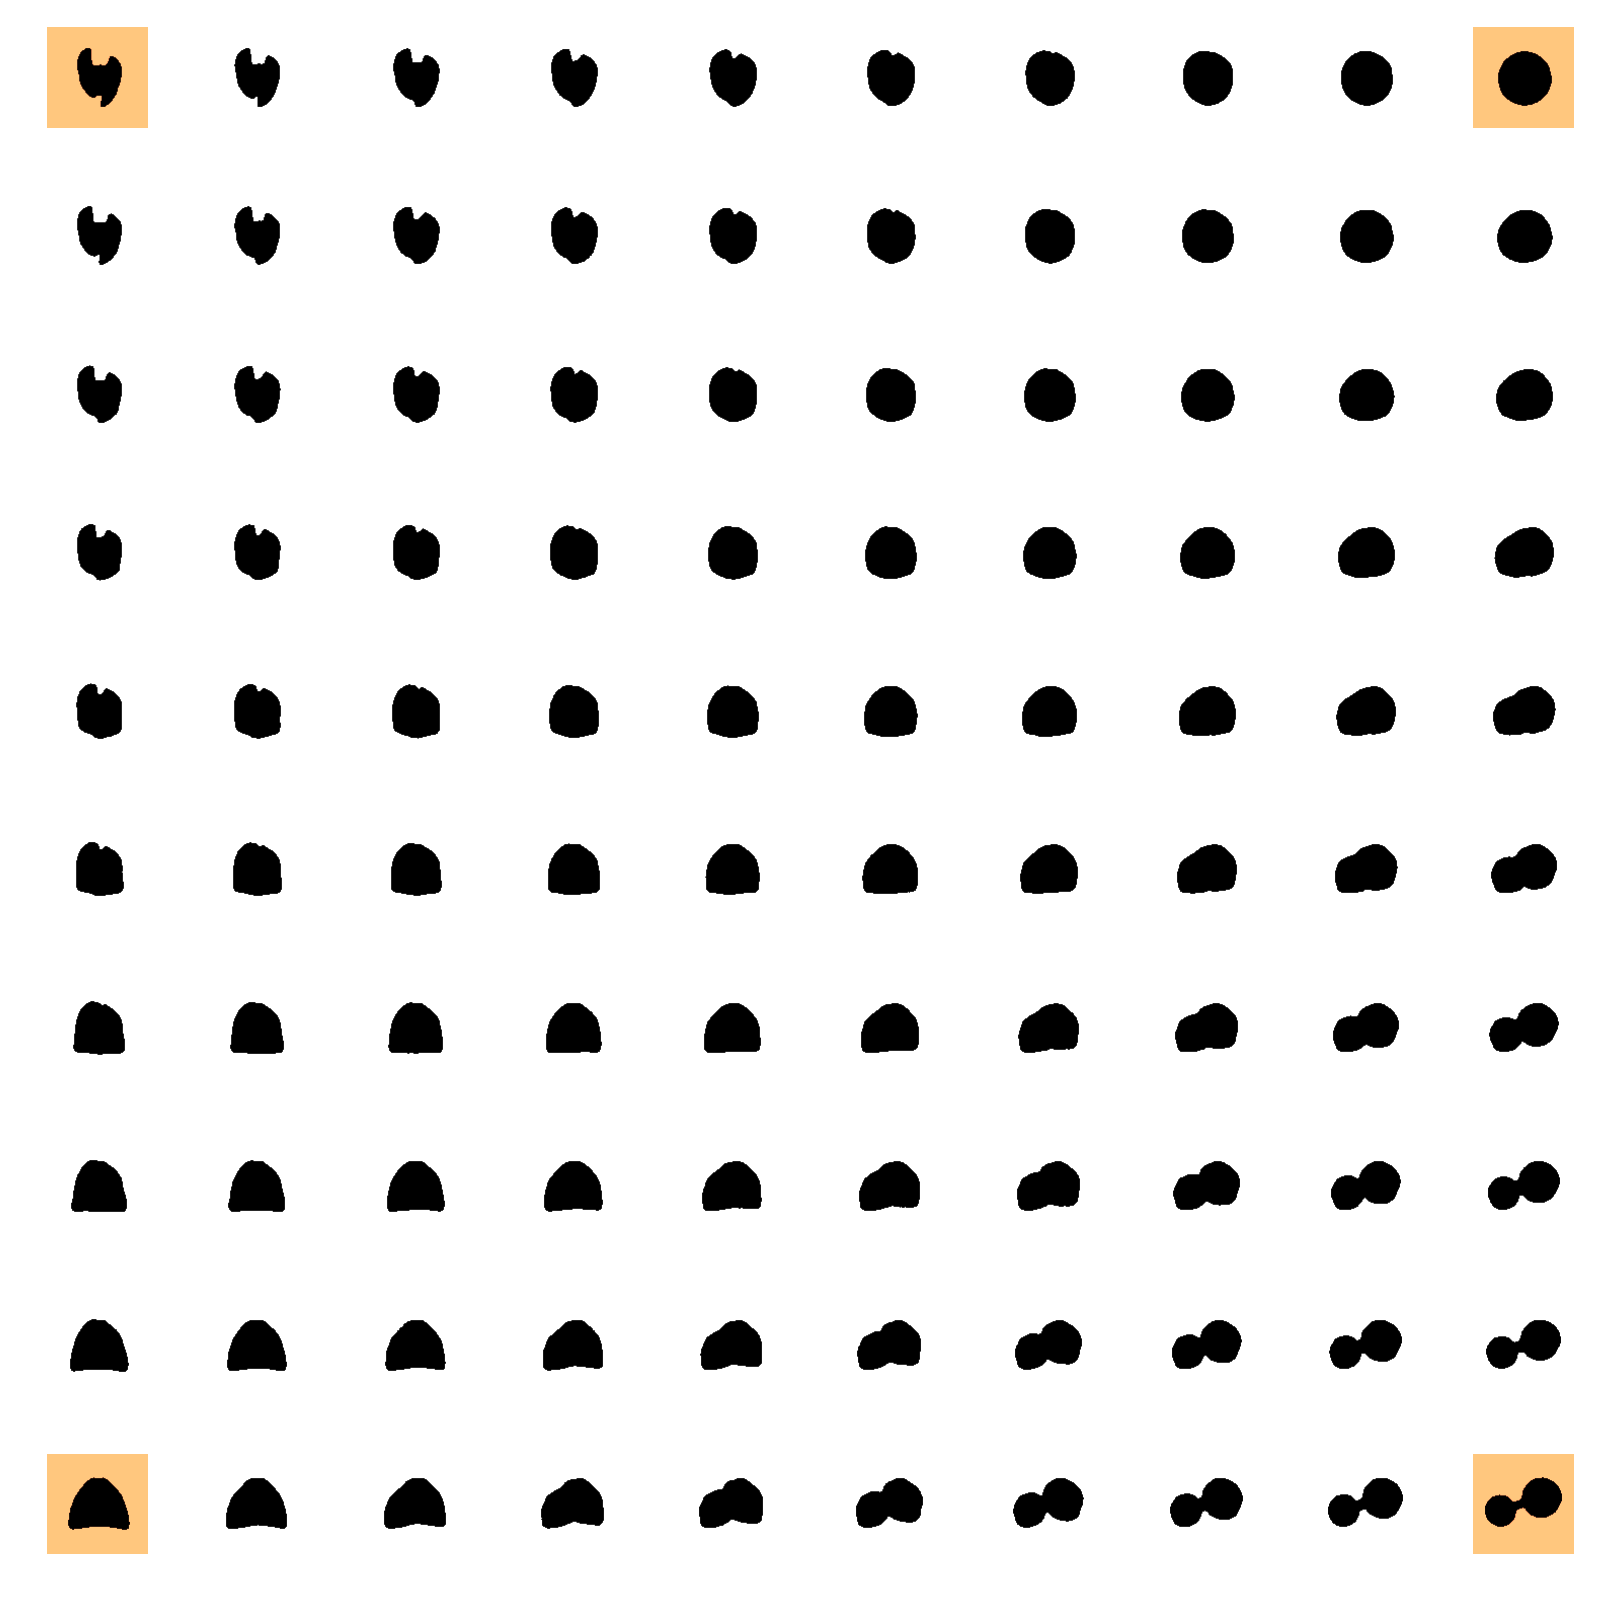
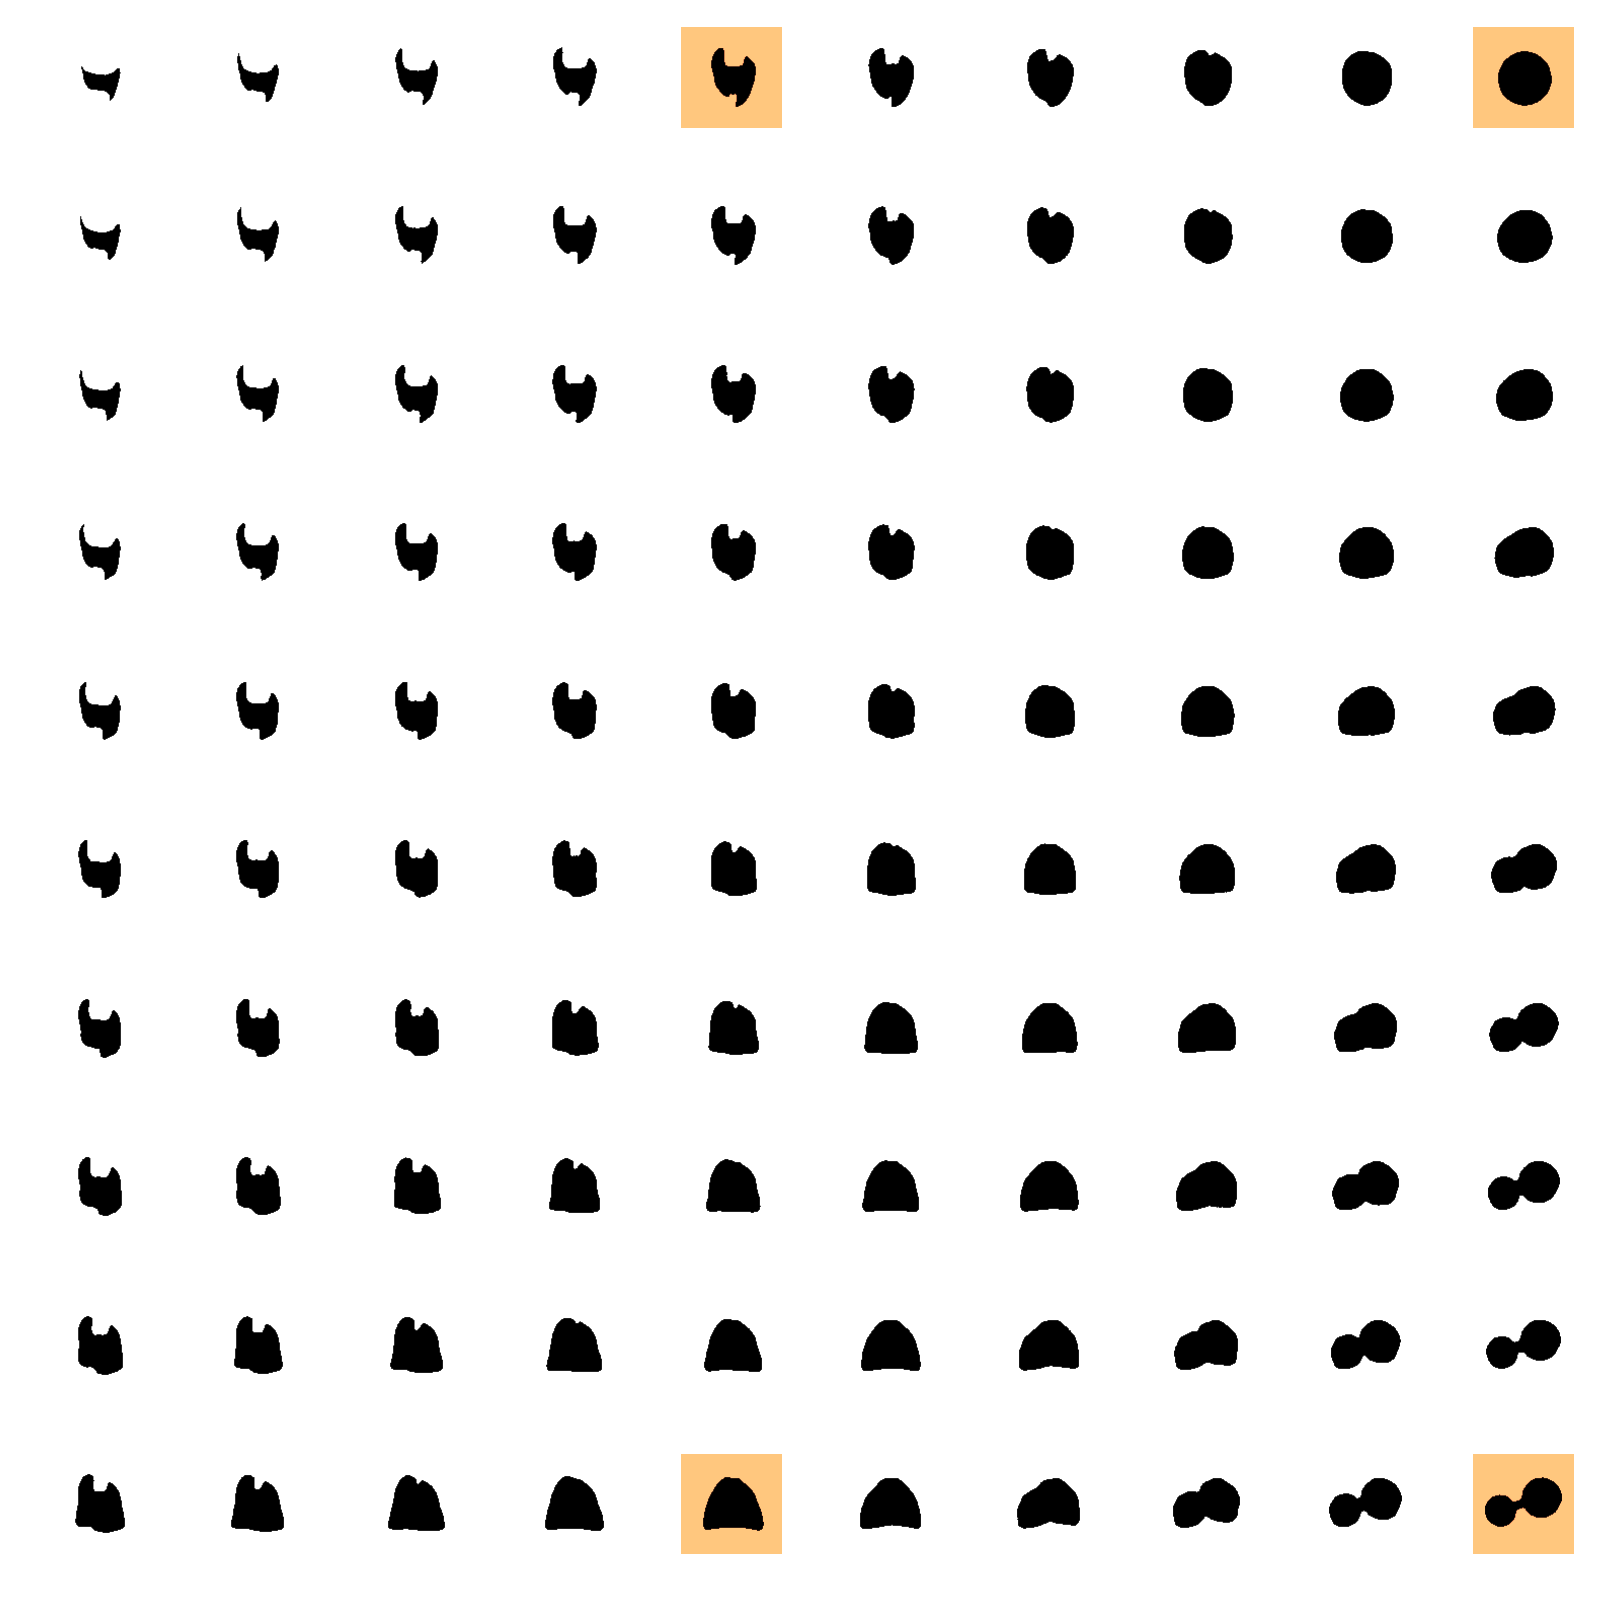
added latents, formatting, highlight design latent

diff --git a/templates/main.html b/templates/main.html
@@ -15,9 +15,45 @@
     <h2 class = "text-center">Latent Space Designer </h2>
   </div>
 
-  <div class="row ">
-  <div class="col-md-3 " style="margin-top: 300px">
-    <form id = "myForm" action="" method="POST" style="width: 80%; margin:auto" class= "text-center">
+
+  <div class="row " >
+  <div class="col-md-3 text-center" style=" margin-top: 100px">
+    <h5>Seed Designs</h5>
+    <div class = "row ">    
+      <div class = "col-3" > 
+        <figure class = "text-center">
+         <img src ="static/img/floor1.png"  class="figure-img img-fluid"> 
+         <figcaption  >[0,0]</figcaption>
+        </figure>
+      </div>
+
+      <div class = "col-3"> 
+        <figure >
+          <img src ="static/img/floor2.png"  class="figure-img img-fluid"> 
+          <figcaption >[0,0]</figcaption>
+         </figure>
+      </div>
+
+      <div class = "col-3"> 
+        <figure >
+          <img src ="static/img/floor3.png"  class="figure-img img-fluid"> 
+          <figcaption >[0,0]</figcaption>
+         </figure>
+      </div>
+
+       <div class = "col-3"> 
+        <figure >
+          <img src ="static/img/floor4.png"  class="figure-img img-fluid"> 
+          <figcaption >[0,0]</figcaption>
+         </figure>
+       </div>
+
+   </div>
+
+
+    <form id = "myForm" action="" method="POST" style="width: 80%; margin:auto; margin-top: 100px;" class= "text-center">
+      <h5>Latent Space</h5>
+
       <div class="form-row">
         <div class="col">
           <label for="xMin">xMin:</label>
@@ -43,7 +79,7 @@
 
       <div class="form-row" style="margin-top: 30px"> 
         <div class="col">
-          <input type="submit" id = "updateLatent" name = "updateLatent" value = "update latent space">
+          <input type="submit" class="btn btn-outline-dark"  id = "updateLatent" name = "updateLatent" value = "update latent space">
         </div>
       </div>
     </form>
@@ -53,17 +89,20 @@
    <!-- <input type="submit" id = 'predict' value="Predict" onclick="return save();"> -->
   <div class="mx-auto text-center">
     <br>
-    <canvas id="paperCanvas"  width="800" height="800" style="border:2px solid #000000;"></canvas>
+    <canvas id="paperCanvas"  width="800" height="800" style="border:2px solid #000000 "></canvas>
     <!-- <image src = "/static/img/latent.png" width = "600", height = "600"></image> -->
 
   </div>
 </div>
+
+<div class="col-md-3 " style="margin-top: 400px">
+  <button type="button" class="btn btn-outline-dark" id = "gen" name = "gen">Generate</button>
+
+</div>
 <!-- this passes filenames to the model -->
 <form action="" method="POST" id = "btnGenerate">
-    <!-- <input id = "fileNameInput" name = "fileNameInput"> -->
-    <input type="submit" id = "generateSlices" name = "generateSlices" value = "generate">
+    <input type="hidden" id = "generateSlices" name = "generateSlices" value = "generate">
     <input type="hidden" id = "slices" name = "slices">
-    <!-- <input name="generate" value="Generate Design" /> -->
 </form>
 
 

diff --git a/static/javascript/js/paperPath.js b/static/javascript/js/paperPath.js
@@ -67,8 +67,8 @@ addAxisLabels()
 
 function mouseToLatent(point){
 
-    var pos = point - new Point(margin, margin);
-    pos /= width;
+    var pos = point - new Point(margin, margin)
+    pos = pos / width;
 
     xMin = parseFloat(globals.latentBounds[0]);
     xMax = parseFloat(globals.latentBounds[1]);
@@ -78,6 +78,7 @@ function mouseToLatent(point){
     var xVal = xMin + pos.x * (xMax - xMin);
     var yVal = yMax - pos.y * (yMax - yMin);
 
+    //rescale by 10% due so images are centered on coordinates, 1.1 because 10 images. need to fix this
     latentPoint = new Point(xVal, yVal);
 
     return latentPoint
@@ -99,30 +100,33 @@ raster.onMouseLeave = function(event) {
 function extractSlices(sliceCount){
 
     //check if there are actually any nodes!
-
     slices = [];
 
-    var offsetStep = path.length / sliceCount;
-
-    for(i = 0; i <sliceCount; i++)
+    //deal with edge case of a single point, which is not a valid path yet
+    if(path.length == 0)
     {
-        var point = path.getPointAt(offsetStep * i);
-        var pt = point / width;
-        slices.push([pt.x.toFixed(2), pt.y.toFixed(2)]);
+        for(i = 0; i <sliceCount; i++)
+        {
+            var pt = path.segments[0].point / width;
+            slices.push([pt.x.toFixed(2), pt.y.toFixed(2)]);
+         }
     }
 
+    else
+    {
+        var offsetStep = path.length / sliceCount;
+
+        for(i = 0; i <sliceCount; i++)
+        {
+            var point = path.getPointAt(offsetStep * i);
+            var pt = point / width;
+            slices.push([pt.x.toFixed(2), pt.y.toFixed(2)]);
+        }
+    }
+    // console.log(slices)
     return slices;
 }
 
-function onKeyDown(event) {
-
-    if(event.key == 's')
-    {
-        var s = extractSlices(100);
-        globals.slices = extractSlices(100);
-        console.log(globals.slices)
-    }
-}
 
 function onMouseDown(event) {
 
@@ -156,6 +160,8 @@ function onMouseDown(event) {
 
         path.add(event.point)
         path.smooth() //need to contrain values on path within the range if want to use this.
+
+        globals.slices = extractSlices(100);
     }
     
     //on right click

diff --git a/static/javascript/js/latent.js b/static/javascript/js/latent.js
@@ -7,15 +7,24 @@ document.querySelector("#yMin").value = latentBounds[2]
 document.querySelector("#yMax").value = latentBounds[3]
 
 
-function init(jQuery) {
-  $("#btnGenerate").on('click', (e) => {
-    document.querySelector("#slices").value = globals.slices;
-});
-}
-
 window.globals = {
     generate: function() {},
     slices:  [],
     latentBounds: latentBounds 
   }
 
+  function init(jQuery) {
+    $("#gen").on('click', (e) => {
+
+        if(window.globals.slices.length == 0)
+          {
+            alert("Cannot Build Model without a Path Defined");
+          }
+        else
+        {
+          document.querySelector("#slices").value = globals.slices;
+          document.querySelector("#btnGenerate").submit();
+        }
+      
+  });
+  }

diff --git a/python_modules/deepsdf/eval.py b/python_modules/deepsdf/eval.py
@@ -27,7 +27,8 @@ size = 100
 ptsSample = np.float_([[x, y] 
                 for y in  np.linspace(-50, 50, size) 
                 for x in np.linspace(-50, 50, size)])
-                    
+pts = torch.Tensor(ptsSample).to(device)
+
 #save the numpy data locally
 def save(scene_data : np.array):
     np.save(dir_data + "/numpy" , scene_data)
@@ -106,14 +107,14 @@ def funcTimer(func):
 
 def latent_to_image(model, latent, invert = False):
 
-    coord = torch.Tensor(ptsSample).to(device)
-    out = model.forward(latent.to(device), coord)
+    out = model.forward(latent.to(device), pts)
     pixels = out.view(size, size)
 
     if(invert):
         mask = pixels < 0
     else:
         mask = pixels > 0
+
     vals = mask.type(torch.uint8) 
     vals = vals.cpu().detach().numpy()
 
@@ -151,6 +152,30 @@ def interpolate_grid(model, corners, num = 10):
     x = np.linspace(corners[0][0], corners[0][1], num)
     y = np.linspace(corners[1][1], corners[1][0], num) #bottom left is lowest y
 
+
+    tolerance = 0.25 #only identify closest if < tolerance
+    seedLatents = [[0.0,0.0], [0.0, 1.0], [1.0, 0.0], [1.0, 1.0]]
+
+
+    closestLatents = []
+    #find the closest coordinates to the latent vector of the seed designs
+    for seed in seedLatents:
+
+        closestLatent = seed
+
+        #if within bounds find the closest
+        #if outside but within certain tolerance find closest
+        
+        #only approximate the latent if within  the tolerance and within range
+        if(min([ abs(val-seed[0]) for val in x ]) < tolerance):
+            closestLatent[0] = min(x, key=lambda x:abs(x-seed[0]))
+
+        if(min([ abs(val-seed[0]) for val in y ]) < tolerance):
+            closestLatent[1] = min(y, key=lambda y:abs(y-seed[1]))
+
+        closestLatents.append(closestLatent)
+
+    print(closestLatents)
     for index, i in enumerate(x):
         for jindex, j in enumerate(y) :
         
@@ -159,9 +184,10 @@ def interpolate_grid(model, corners, num = 10):
 
             im = latent_to_image(model, latent)
 
-            if([i, j] in [[0.0,0.0], [0.0, 1.0], [1.0, 0.0], [1.0, 1.0]]):
+            if([i, j] in closestLatents):
 
                 axs[jindex, index].imshow(im, cmap = "copper")
+
             else:
 
                 axs[jindex, index].imshow(im, cmap = "gray")
@@ -285,11 +311,11 @@ def generateModel(sliceVectors, model, numSlices, res):
     latentStart = torch.tensor( [1, 0.5]).to(device)
     latentEnd = torch.tensor( [2, 0]).to(device)
 
-    ptsSample = np.float_([[x, y] 
-                        for y in  np.linspace(-50, 50, res) 
-                        for x in np.linspace(-50, 50, res)])
+    # ptsSample = np.float_([[x, y] 
+    #                     for y in  np.linspace(-50, 50, res) 
+    #                     for x in np.linspace(-50, 50, res)])
 
-    pts = torch.Tensor(ptsSample).to(device)
+    # pts = torch.Tensor(ptsSample).to(device)
 
     def createSlice(pts, latent):
 
